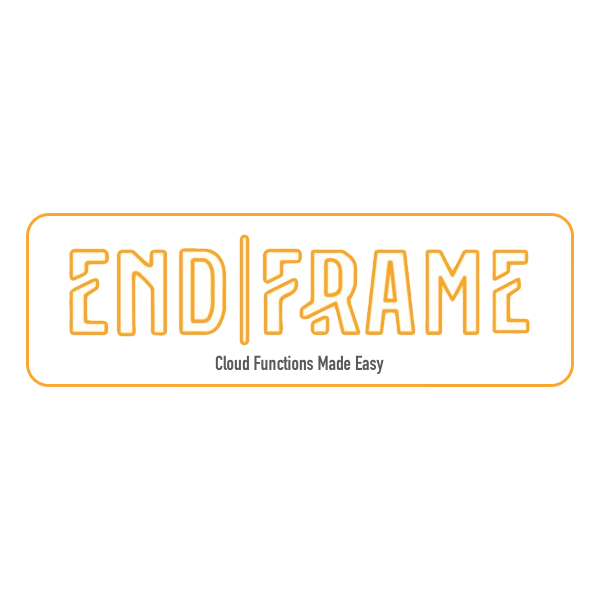
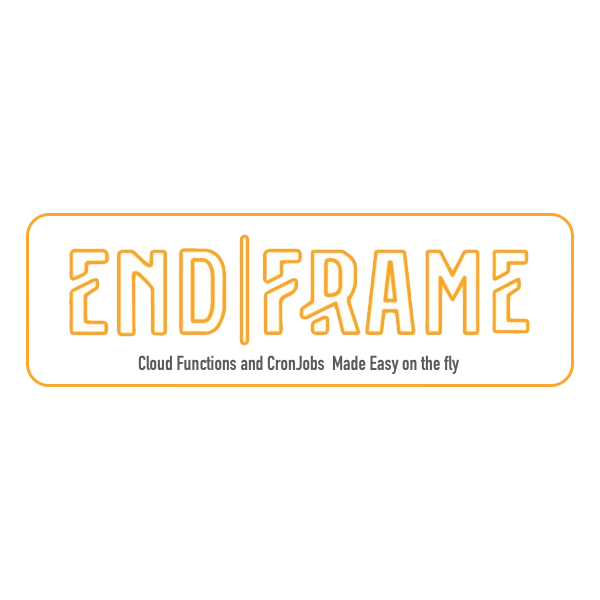
cambios

Changed region(s): [[0.21, 0.57, 0.78, 0.63]]

diff --git a/cron/cron_acb9507f.js b/cron/cron_acb9507f.js
@@ -1,0 +1,23 @@
+
+let cron = require('node-cron');
+let moment = require('moment');
+let axios = require('axios');
+let cronlist = {};
+  
+cronlist["8a1536d6"]=cron.schedule('* * * * *', async function () { console.info('Cron every minute');   return body.a + body.b },  {timezone: "America/Mexico_City"});  
+cronlist["8a1536d6"].stop();
+                    
+cronlist["4b24e491"]=cron.schedule('*/2 * * * *', async function () {  console.log('cron cada 2 minutos ____ tttt  ') ; return body.a + body.b },  {timezone: "America/Mexico_City"});  
+cronlist["4b24e491"].stop();
+                    
+cronlist["e8bef11b"]=cron.schedule('*/2 * * * *', async function () {  console.log('cron cada 2 minutos ____ tttt  ') ; return body.a + body.b },  {timezone: "America/Mexico_City"});  
+cronlist["e8bef11b"].stop();
+                    
+cronlist["8272b022"]=cron.schedule('*/1 * * * *', async function () {  console.log('cron cada 1 minutos ____ nuevo  ') ; return body.a + body.b },  {timezone: "America/Mexico_City"});  
+cronlist["8272b022"].stop();
+                    
+cronlist["33fd6963"]=cron.schedule('* * * * *', async function () {  console.log('This is a cron every minute ') ; return true },  {timezone: "America/Mexico_City"});  
+cronlist["33fd6963"].stop();
+                    
+module.exports=cronlist;
+            

diff --git a/README.md b/README.md
@@ -18,10 +18,10 @@ Thanks to EndFrame you can create a REST API to manage Mail
 
 <hr>
 
-**Import tres comas basic project**
+**Import endframe-functions basic project**
 
 ```javascript
-const endFrame = require("end-frame");
+const endFrame = require("endframe-functions");
 ```
 
 **Set up the library**
@@ -58,7 +58,7 @@ cf.start()
 **Full example code**
 
 ```javascript
-let endFrame = require('./index')
+let endFrame = require('endframe-functions')
 
 
 let options = {
